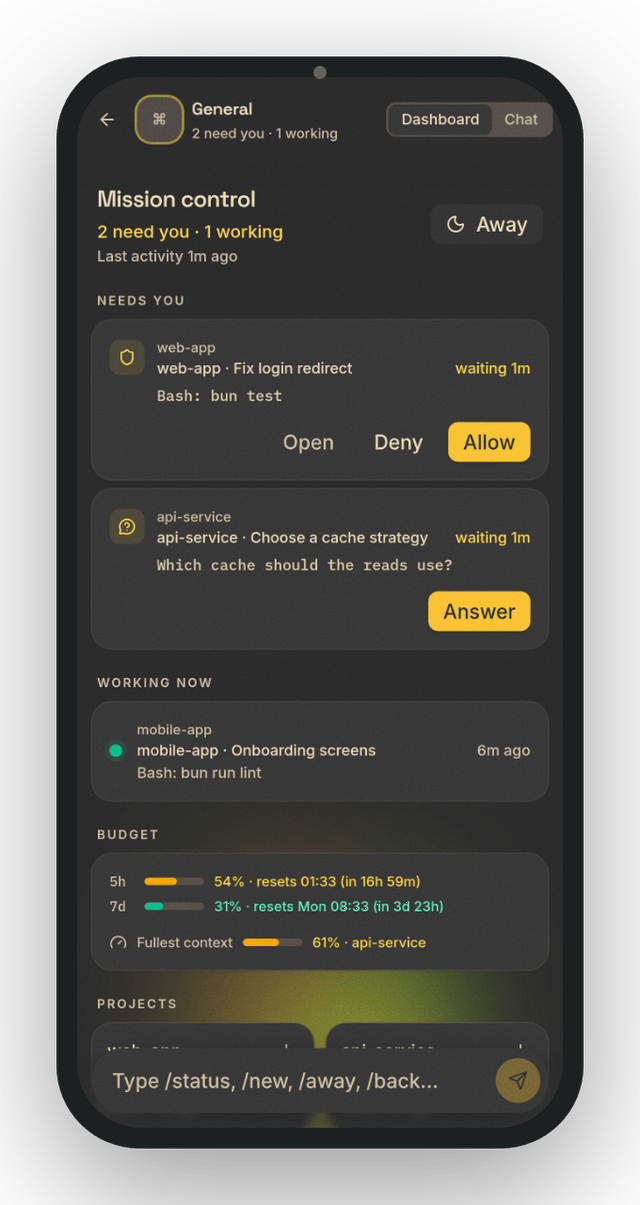
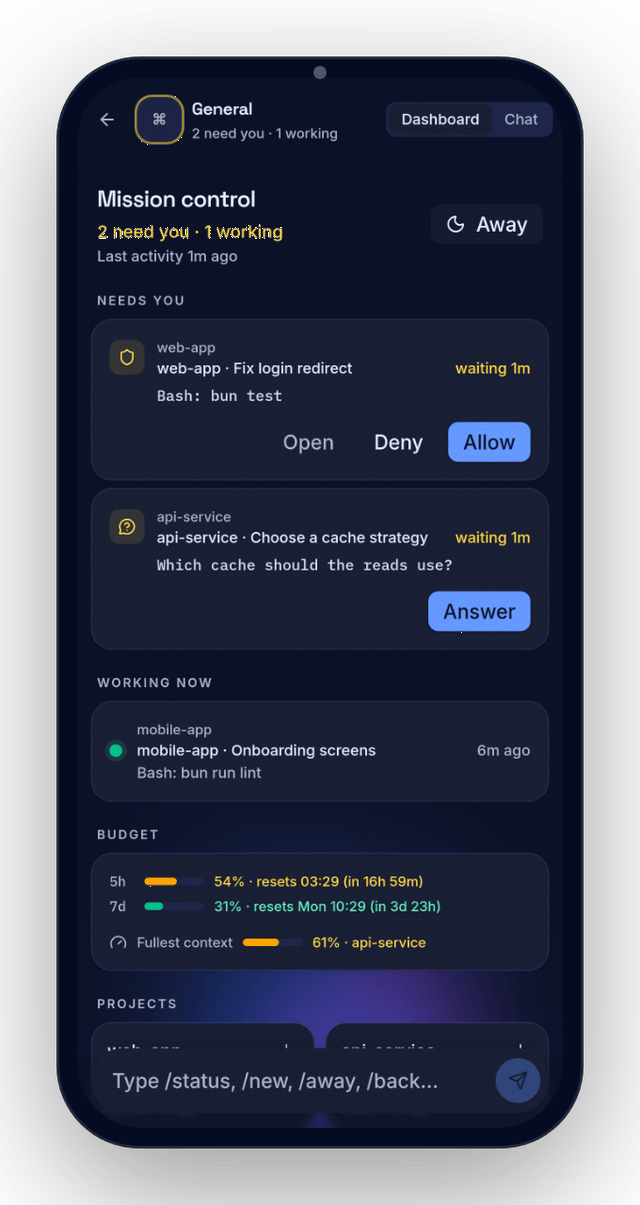
Show the Remote Agent theme in the README previews
The preview tool now defaults to the Remote Agent theme in dark mode with
the logo's navy frames, which get a faint rim so they stay visible on dark
pages. All five images are regenerated.

diff --git a/tools/readme-preview/gallery.html b/tools/readme-preview/gallery.html
@@ -3,7 +3,7 @@
 <head>
 <meta charset="utf-8">
 <style>
-  :root { --bezel: #1d2021; }
+  :root { --bezel: #050b22; }
   html, body { margin: 0; padding: 0; background: transparent; }
   .stage { position: relative; overflow: hidden; background: transparent; }
 
@@ -11,7 +11,7 @@
   .stage.laptop-stage { width: 1160px; height: 740px; }
   .laptop { position: absolute; left: 80px; top: 40px; width: 1000px; }
   .laptop .lid {
-    background: var(--bezel); border-radius: 22px; padding: 14px; box-sizing: border-box; width: 1000px;
+    background: var(--bezel); border-radius: 22px; padding: 14px; box-shadow: inset 0 0 0 1.5px rgba(255, 255, 255, 0.10); box-sizing: border-box; width: 1000px;
     filter: drop-shadow(0 22px 34px rgba(0, 0, 0, 0.30));
   }
   .laptop .lid img { display: block; width: 972px; height: 607.5px; border-radius: 6px; }
@@ -29,7 +29,7 @@
   .stage.phone-stage { width: 340px; height: 640px; }
   .phone {
     position: absolute; left: 30px; top: 30px; width: 280px; height: 580px;
-    background: var(--bezel); border-radius: 44px; padding: 11px; box-sizing: border-box;
+    background: var(--bezel); border-radius: 44px; padding: 11px; box-sizing: border-box; box-shadow: inset 0 0 0 1.5px rgba(255, 255, 255, 0.10);
     filter: drop-shadow(0 22px 34px rgba(0, 0, 0, 0.40));
   }
   .phone .screen { position: relative; width: 258px; height: 558px; border-radius: 34px; overflow: hidden; }

diff --git a/tools/readme-preview/compose.html b/tools/readme-preview/compose.html
@@ -3,13 +3,13 @@
 <head>
 <meta charset="utf-8">
 <style>
-  :root { --bezel: #1d2021; }
+  :root { --bezel: #050b22; }
   html, body { margin: 0; padding: 0; background: transparent; }
   .stage { position: relative; width: 1300px; height: 1040px; overflow: hidden; background: transparent; }
 
   .laptop { position: absolute; left: 60px; top: 50px; width: 1000px; }
   .laptop .lid {
-    background: var(--bezel); border-radius: 22px; padding: 14px;
+    background: var(--bezel); border-radius: 22px; padding: 14px; box-shadow: inset 0 0 0 1.5px rgba(255, 255, 255, 0.10);
     box-sizing: border-box; width: 1000px;
     filter: drop-shadow(0 22px 34px rgba(0, 0, 0, 0.30));
   }
@@ -26,7 +26,7 @@
 
   .phone {
     position: absolute; left: 960px; top: 288px; width: 229px; height: 472px;
-    background: var(--bezel); border-radius: 37px; padding: 10px; box-sizing: border-box;
+    background: var(--bezel); border-radius: 37px; padding: 10px; box-sizing: border-box; box-shadow: inset 0 0 0 1.5px rgba(255, 255, 255, 0.10);
     filter: drop-shadow(0 22px 34px rgba(0, 0, 0, 0.40));
   }
   .phone .screen { position: relative; width: 209px; height: 452px; border-radius: 29px; overflow: hidden; }

diff --git a/tools/readme-preview/README.md b/tools/readme-preview/README.md
@@ -22,15 +22,15 @@ It builds the web UI, starts a throwaway Bridge with demo data, takes the screen
 
 ## Choose the theme
 
-The images use the **Gruvbox** theme in **dark** mode. To use another theme, set these before running:
+The images use the **Remote Agent** theme in **dark** mode. To use another theme, set these before running:
 
 | Variable | Default | Meaning |
 | :------- | :------ | :------ |
-| `PREVIEW_PALETTE` | `gruvbox` | A palette id from `src/ui/themes.ts`. |
+| `PREVIEW_PALETTE` | `default` | A palette id from `src/ui/themes.ts`. |
 | `PREVIEW_MODE` | `dark` | `light` or `dark`. |
-| `PREVIEW_BEZEL` | `#1d2021` | The color of the laptop and phone frames. |
+| `PREVIEW_BEZEL` | `#050b22` | The color of the laptop and phone frames. |
 
-For example, a light version: `PREVIEW_PALETTE=default PREVIEW_MODE=light PREVIEW_BEZEL='#050b22' tools/readme-preview/run.sh`.
+For example, a Gruvbox version: `PREVIEW_PALETTE=gruvbox PREVIEW_MODE=dark PREVIEW_BEZEL='#1d2021' tools/readme-preview/run.sh`.
 
 The fonts come from the app, which bundles Inter, Space Grotesk and IBM Plex Mono, so the shots look the same on any machine.
 

diff --git a/README.md b/README.md
@@ -12,7 +12,7 @@ Watch and steer your active [Claude Code](https://claude.com/claude-code) Sessio
 Remote Agent is for a single developer who runs Claude Code on their own machine and wants to stay in the loop away from the keyboard, without giving up control.
 
 <p align="center">
-  <img src="docs/assets/ui-preview.png" alt="The Remote Agent web UI in the Gruvbox dark theme, on a laptop showing the Mission control dashboard with a permission request waiting, and on a phone showing the Session list with the Sessions that need you at the top." width="900">
+  <img src="docs/assets/ui-preview.png" alt="The Remote Agent web UI in its default dark theme, on a laptop showing the Mission control dashboard with a permission request waiting, and on a phone showing the Session list with the Sessions that need you at the top." width="900">
 </p>
 
 ## Contents
